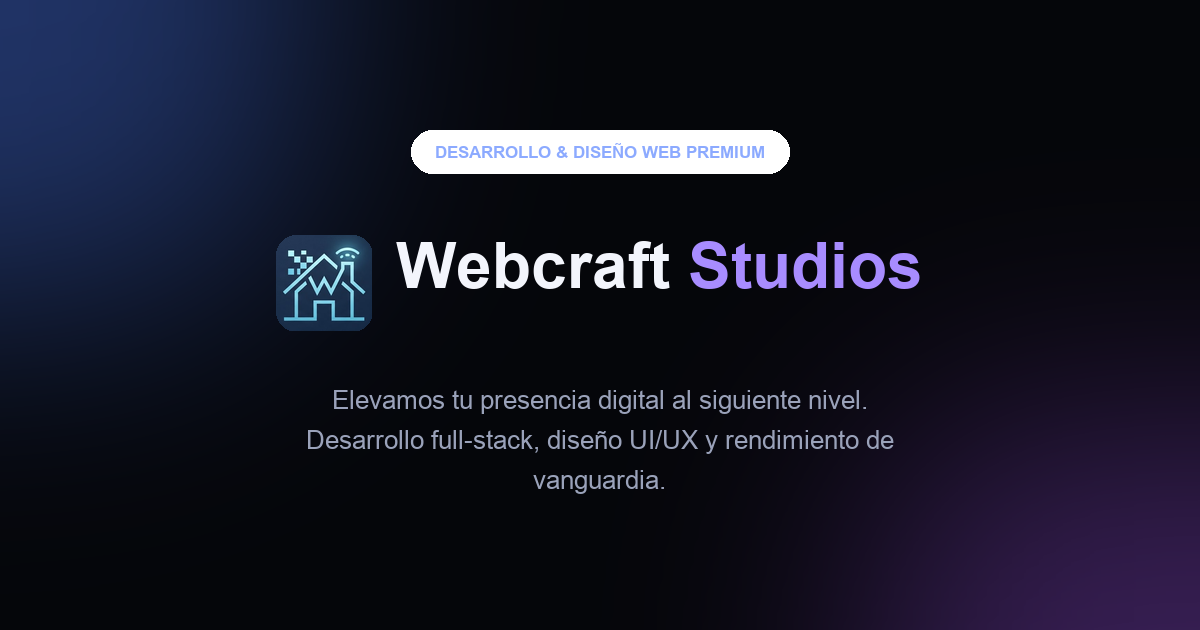
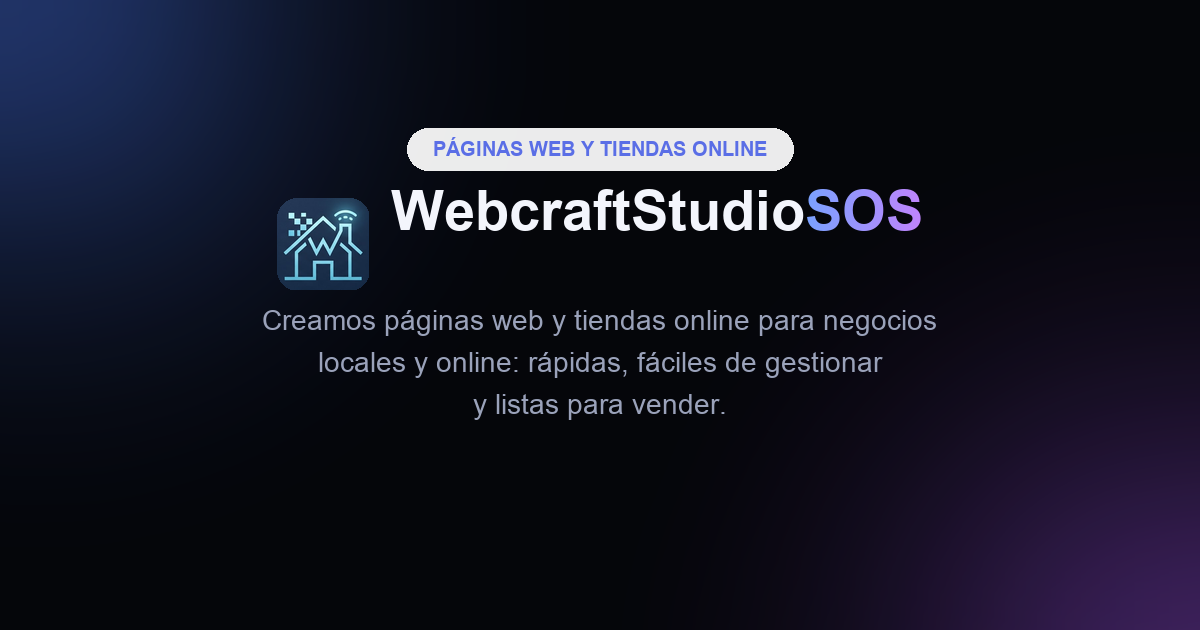
Rebrand to WebcraftStudioSOS and simplify remaining site copy
- Rename brand across logo, navbar, footer, SEO metadata, contact form
  emails, privacy policy and README (Webcraft Studios -> WebcraftStudioSOS)
- Regenerate Open Graph / Twitter share images with the new name and copy
- Rewrite Hero copy to speak directly to local/online business owners
  instead of generic agency language
- Simplify remaining jargon in the budget calculator extras and site type
  descriptions ("alta conversión", "sitio institucional", etc.)

Changed region(s): [[0.2158, 0.181, 0.7708, 0.7238], [0.4317, 0.754, 0.555, 0.7841]]

diff --git a/data/siteData.ts b/data/siteData.ts
@@ -221,7 +221,7 @@ export const siteTypes: SiteType[] = [
     basePriceMax: 600,
     basePages: 1,
     pricePerExtraPage: 150,
-    description: "Página única de alta conversión.",
+    description: "Ideal para lanzar rápido y captar clientes.",
   },
   {
     id: "corporate",
@@ -230,7 +230,7 @@ export const siteTypes: SiteType[] = [
     basePriceMax: 1200,
     basePages: 5,
     pricePerExtraPage: 180,
-    description: "Sitio institucional multi-página.",
+    description: "Varias páginas para presentar bien tu negocio.",
   },
   {
     id: "ecommerce",
@@ -239,7 +239,7 @@ export const siteTypes: SiteType[] = [
     basePriceMax: 2200,
     basePages: 8,
     pricePerExtraPage: 220,
-    description: "Tienda en línea completa.",
+    description: "Vende tus productos online, con carrito y pagos incluidos.",
   },
 ];
 
@@ -251,9 +251,9 @@ export type BudgetExtra = {
 };
 
 export const budgetExtras: BudgetExtra[] = [
-  { id: "seo", label: "SEO Avanzado", price: 400, description: "Estrategia técnica y de contenido." },
-  { id: "admin", label: "Panel de Administración", price: 900, description: "Gestión de contenido a medida." },
-  { id: "i18n", label: "Multi-idioma", price: 500, description: "Soporte para múltiples idiomas." },
+  { id: "seo", label: "SEO Avanzado", price: 400, description: "Para aparecer antes en las búsquedas de Google." },
+  { id: "admin", label: "Panel de Administración", price: 900, description: "Para que edites tú mismo textos e imágenes, sin ayuda técnica." },
+  { id: "i18n", label: "Multi-idioma", price: 500, description: "Tu web disponible en varios idiomas." },
   { id: "api", label: "Conexión con otras herramientas", price: 700, description: "Reservas, facturación, CRM u otros servicios que ya uses." },
   { id: "uiux", label: "Diseño premium a medida", price: 1200, description: "Un diseño exclusivo y cuidado al detalle." },
   { id: "maintenance", label: "Mantenimiento Mensual", price: 90, description: "Soporte y actualizaciones continuas." },

diff --git a/app/layout.tsx b/app/layout.tsx
@@ -22,8 +22,8 @@ const siteUrl = "https://webcraftstudiosos.com";
 export const metadata: Metadata = {
   metadataBase: new URL(siteUrl),
   title: {
-    default: "Webcraft Studios — Desarrollo y Diseño Web de Alto Nivel",
-    template: "%s — Webcraft Studios",
+    default: "WebcraftStudioSOS — Páginas Web y Tiendas Online para Negocios",
+    template: "%s — WebcraftStudioSOS",
   },
   description:
     "Diseñamos y creamos páginas web y tiendas online para negocios locales y online. Sitios rápidos, fáciles de gestionar y pensados para conseguir más clientes.",
@@ -35,20 +35,20 @@ export const metadata: Metadata = {
     "creación de páginas web",
     "posicionamiento en Google",
   ],
-  authors: [{ name: "Webcraft Studios" }],
-  creator: "Webcraft Studios",
+  authors: [{ name: "WebcraftStudioSOS" }],
+  creator: "WebcraftStudioSOS",
   openGraph: {
     type: "website",
     locale: "es_ES",
     url: siteUrl,
-    siteName: "Webcraft Studios",
-    title: "Webcraft Studios — Desarrollo y Diseño Web de Alto Nivel",
+    siteName: "WebcraftStudioSOS",
+    title: "WebcraftStudioSOS — Páginas Web y Tiendas Online para Negocios",
     description:
       "Creamos tu web o tienda online: diseño a medida, rápida y lista para conseguir más clientes.",
   },
   twitter: {
     card: "summary_large_image",
-    title: "Webcraft Studios — Desarrollo y Diseño Web de Alto Nivel",
+    title: "WebcraftStudioSOS — Páginas Web y Tiendas Online para Negocios",
     description:
       "Creamos tu web o tienda online: diseño a medida, rápida y lista para conseguir más clientes.",
   },

diff --git a/components/Hero.tsx b/components/Hero.tsx
@@ -33,7 +33,7 @@ export function Hero() {
           className="mb-7 inline-flex items-center gap-2 rounded-full border border-border bg-surface px-4 py-1.5 text-xs font-semibold uppercase tracking-widest text-primary-light"
         >
           <Sparkles className="size-3.5" aria-hidden="true" />
-          Desarrollo &amp; Diseño Web Premium
+          Páginas Web y Tiendas Online
         </motion.div>
 
         <motion.h1
@@ -42,8 +42,8 @@ export function Hero() {
           transition={{ duration: 0.7, delay: 0.1 }}
           className="max-w-4xl text-balance font-display text-4xl font-extrabold leading-[1.08] tracking-tight text-text sm:text-6xl lg:text-7xl"
         >
-          Elevamos tu presencia digital{" "}
-          <span className="text-gradient">al siguiente nivel</span>
+          Tu negocio, con{" "}
+          <span className="text-gradient">una web que vende</span>
         </motion.h1>
 
         <motion.p
@@ -52,9 +52,9 @@ export function Hero() {
           transition={{ duration: 0.7, delay: 0.2 }}
           className="mt-6 max-w-2xl text-balance text-lg text-text-muted sm:text-xl"
         >
-          Diseñamos y desarrollamos sitios y aplicaciones web que combinan
-          estética de vanguardia, rendimiento impecable y resultados
-          medibles para marcas que quieren destacar.
+          Creamos páginas web y tiendas online para negocios locales y
+          online: rápidas, fáciles de gestionar y pensadas para conseguir
+          más clientes.
         </motion.p>
 
         <motion.div

diff --git a/components/Footer.tsx b/components/Footer.tsx
@@ -18,8 +18,8 @@ export function Footer() {
           <div className="flex flex-col gap-3">
             <Logo />
             <p className="max-w-sm text-sm text-text-muted">
-              Agencia de desarrollo y diseño web. Creamos experiencias
-              digitales que combinan estética, rendimiento y resultados.
+              Creamos páginas web y tiendas online para negocios locales y
+              online, rápidas y fáciles de gestionar.
             </p>
           </div>
 
@@ -55,7 +55,7 @@ export function Footer() {
         </div>
 
         <div className="flex flex-col items-start justify-between gap-3 border-t border-border pt-8 text-xs text-text-faint sm:flex-row sm:items-center">
-          <p>&copy; {year} Webcraft Studios. Todos los derechos reservados.</p>
+          <p>&copy; {year} WebcraftStudioSOS. Todos los derechos reservados.</p>
           <div className="flex flex-wrap items-center gap-x-4 gap-y-2">
             {legalLinks.map((link) => (
               <Link

diff --git a/app/privacidad/page.tsx b/app/privacidad/page.tsx
@@ -6,7 +6,7 @@ import { Container } from "@/components/ui/Container";
 export const metadata: Metadata = {
   title: "Política de Privacidad",
   description:
-    "Cómo Webcraft Studios recopila, usa y protege tus datos personales.",
+    "Cómo WebcraftStudioSOS recopila, usa y protege tus datos personales.",
   robots: { index: true, follow: true },
 };
 
@@ -14,7 +14,7 @@ const sections = [
   {
     title: "¿Quién es el responsable?",
     body: [
-      "Webcraft Studios es responsable del tratamiento de los datos personales que nos facilitas a través de este sitio web (webcraftstudiosos.com). Puedes contactarnos en contacto@webcraftstudiosos.com para cualquier duda relacionada con tus datos.",
+      "WebcraftStudioSOS es responsable del tratamiento de los datos personales que nos facilitas a través de este sitio web (webcraftstudiosos.com). Puedes contactarnos en contacto@webcraftstudiosos.com para cualquier duda relacionada con tus datos.",
     ],
   },
   {

diff --git a/app/api/contact/route.ts b/app/api/contact/route.ts
@@ -47,10 +47,10 @@ export async function POST(request: Request) {
   const resend = new Resend(apiKey);
 
   const { error } = await resend.emails.send({
-    from: "Webcraft Studios <contacto@webcraftstudiosos.com>",
+    from: "WebcraftStudioSOS <contacto@webcraftstudiosos.com>",
     to: CONTACT_EMAIL,
     replyTo: email,
-    subject: `Nuevo mensaje de ${name} — Webcraft Studios`,
+    subject: `Nuevo mensaje de ${name} — WebcraftStudioSOS`,
     text: [
       `Nombre: ${name}`,
       `Email: ${email}`,

diff --git a/components/Navbar.tsx b/components/Navbar.tsx
@@ -34,7 +34,7 @@ export function Navbar() {
       )}
     >
       <div className="mx-auto flex h-18 max-w-7xl items-center justify-between px-6 py-4 lg:px-8">
-        <a href="#inicio" className="shrink-0" aria-label="Webcraft Studios, ir al inicio">
+        <a href="#inicio" className="shrink-0" aria-label="WebcraftStudioSOS, ir al inicio">
           <Logo />
         </a>
 

diff --git a/components/ui/Logo.tsx b/components/ui/Logo.tsx
@@ -18,7 +18,7 @@ export function Logo({ className }: { className?: string }) {
         aria-hidden="true"
         priority
       />
-      Webcraft <span className="text-gradient">Studios</span>
+      WebcraftStudio<span className="text-gradient">SOS</span>
     </span>
   );
 }

diff --git a/README.md b/README.md
@@ -1,6 +1,6 @@
-# Webcraft Studios
+# WebcraftStudioSOS
 
-Sitio web de la agencia Webcraft Studios: desarrollo y diseño web premium.
+Sitio web de WebcraftStudioSOS: páginas web y tiendas online para negocios.
 
 ## Stack
 
